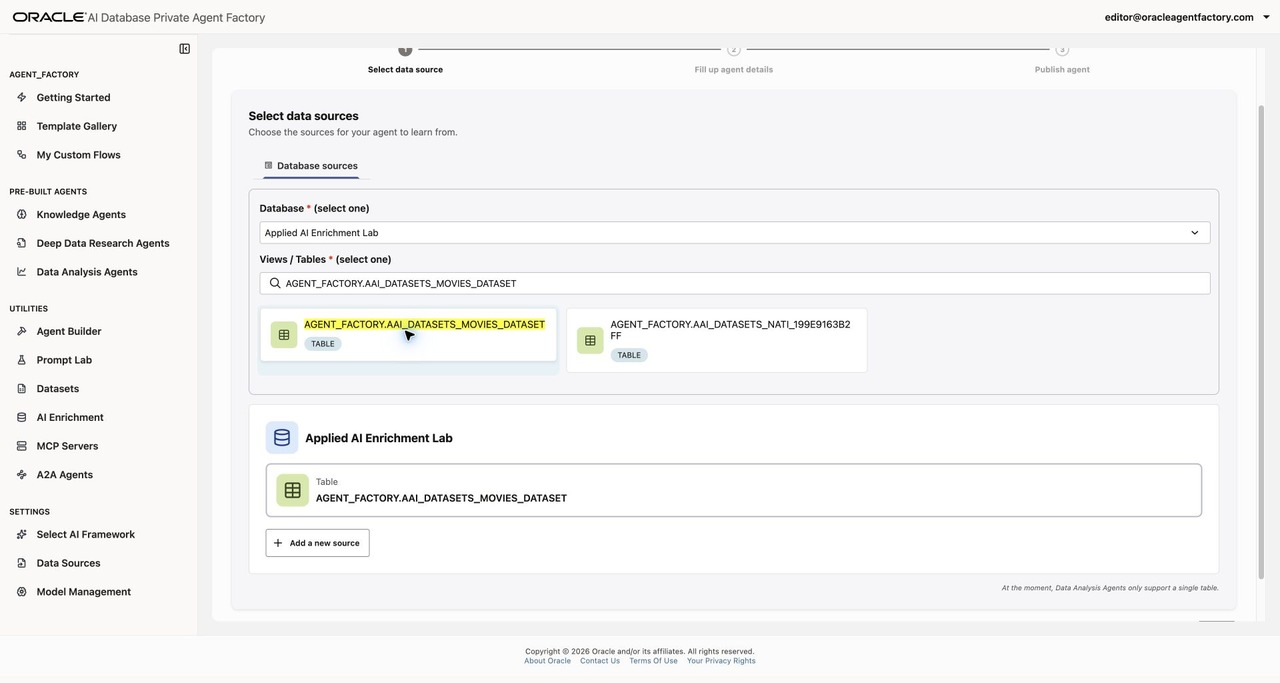
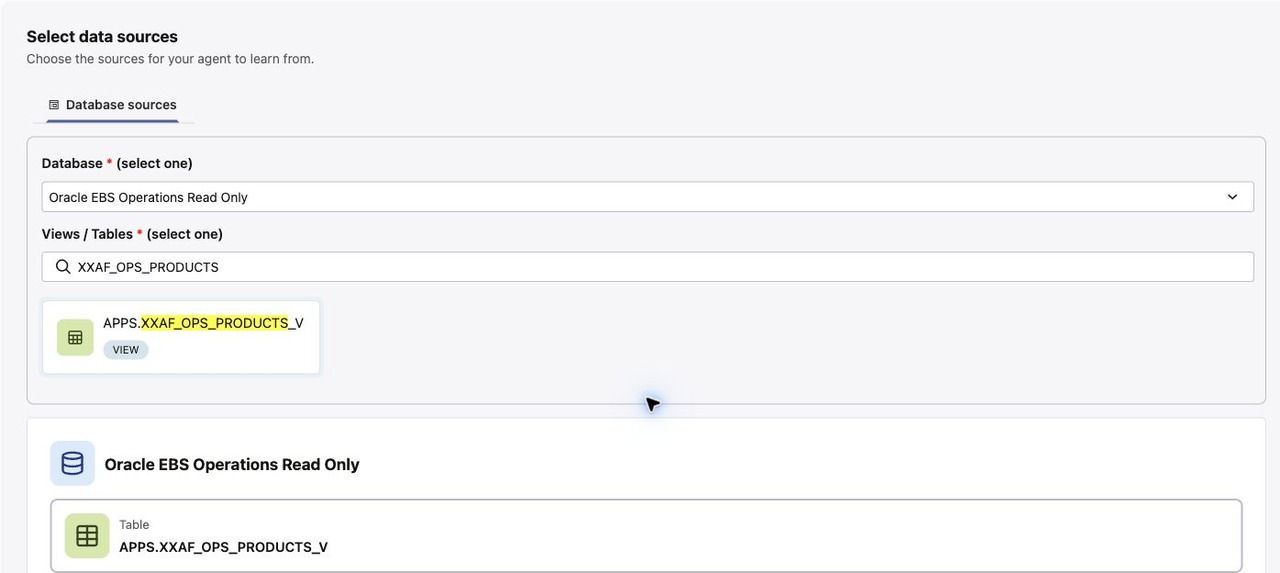
Use verified EBS product inventory in Lab 2

diff --git a/agent-factory/prebuilt/prebuilt.md b/agent-factory/prebuilt/prebuilt.md
@@ -2,9 +2,9 @@
 
 ## Introduction
 
-Oracle AI Database Private Agent Factory provides pre-built agents for common tasks. In this lab, you will create a Data Analysis Agent over a sample movie dataset and a Knowledge Agent over a PDF.
+Oracle AI Database Private Agent Factory provides pre-built agents for common tasks. In this lab, you will create a Data Analysis Agent over a small Oracle EBS product inventory view and a Knowledge Agent over a PDF.
 
-The Data Analysis Agent answers questions about structured data using generated SQL, query results, and natural language explanations. Its initial exploration suggests questions about the selected table. Depending on the question, the response can also include a chart.
+The Data Analysis Agent answers questions about structured data using generated SQL, query results, and natural language explanations. Its initial exploration suggests questions about the selected table or view. Depending on the question, the response can also include a chart.
 
 The Knowledge Agent uses retrieval-augmented generation (RAG) to answer questions from unstructured content. Citations let you inspect the source passages supporting an answer.
 
@@ -12,73 +12,69 @@ The Knowledge Agent uses retrieval-augmented generation (RAG) to answer question
 
 ### Objectives
 
-- Create a Data Analysis Agent using the provided Movies Dataset
+- Create a Data Analysis Agent using the Oracle EBS product inventory view
 - Ask a question and inspect the generated SQL and results
 - Create a Knowledge Agent using a PDF and review its answer citations
 
 ### Prerequisites
 
-* You have completed the Agent Factory overview lab and are signed in with your assigned **Editor** account
-* The workshop environment has the preloaded Movies Dataset, a database source that can query it, and the shared **AIW26-PAF-HOL6004-BOO6096** generative model
+* You have completed the Agent Factory overview lab and are signed in with your assigned account
+* The workshop environment provides **Oracle EBS Operations Read Only**, access to the `APPS.XXAF_OPS_PRODUCTS_V` view, and the shared **AIW26-PAF-HOL6004-BOO6096** generative model
 * You have a PDF to upload, or can save the documentation page in Task 2 as a PDF
 
-## Task 1: Create and talk to a Data Analysis Agent using the Movies Dataset
+## Task 1: Create and talk to a Data Analysis Agent using EBS product inventory
 
-1. In the sidebar, select **Data Analysis Agents**.
+1. In the sidebar, select **Data Analysis Agents**, then click **Create agent**. The database view is already available; you do not need to import a sample dataset.
 
-2. Click **Import sample datasets**.
+2. In **Select data sources**, choose **Oracle EBS Operations Read Only** from the **Database** list. Wait for the available objects to load. Search for `XXAF_OPS_PRODUCTS`, select the `APPS.XXAF_OPS_PRODUCTS_V` **VIEW** card, then click **Next**. A Data Analysis Agent uses one table or view in this flow.
 
-    ![Data Analysis Agents page with Import sample datasets and Create agent buttons.](images/data-analysis-import.jpg)
+    If the source or view is missing, ask your instructor to check access. If the wizard reports **Unable to connect to the Database** or publication reports `ORA-00942`, have the instructor check the connection and object access before retrying.
 
-3. On the **Datasets** page, search for **Movies**. The HOL instance already has **Movies Dataset** imported, so the **Imported** button is disabled. Continue without importing another copy. If your assigned instance has not been prepared, ask your instructor to import the dataset before continuing; the workshop's shared dataset source is read-only.
+    ![APPS.XXAF_OPS_PRODUCTS_V selected from Oracle EBS Operations Read Only.](images/data-analysis-create.jpg)
 
-    ![Movies Dataset card showing the Imported status.](images/movies-imported.jpg)
+3. In **Fill up agent details**, enter an **Agent name** and **Description**. For example:
 
-4. Return to **Data Analysis Agents** and click **Create agent**.
+    * **Agent name:** EBS Product Inventory Agent
+    * **Description:** Analyze Oracle EBS products, installation status, and patch levels from the read-only product inventory view.
 
-5. In **Select data sources**, choose **Applied AI Enrichment Lab** from the **Database** list. Search for `AGENT_FACTORY.AAI_DATASETS_MOVIES_DATASET`, select that **TABLE** card, then click **Next**. This is the imported Movies Dataset. A Data Analysis Agent uses one table in this flow.
+    Add a unique suffix to your agent name so you can find it later. **Help description** is optional and can provide instructions or tips for using the agent. Click **Next**.
 
-    The instance also contains **Applied AI Datasets** and an `AAI_DATASETS_RO.MOVIES_DATASET` view. Use the source and **TABLE** named above for this HOL: the shared dataset connection and the view failed the creation checks during the workshop review. In another instance, use the Movies source and object supplied by your instructor. If the wizard reports **Unable to connect to the Database** or publication reports `ORA-00942`, have the instructor check the connection and object access before retrying.
+    ![Data Analysis Agent details with the EBS product inventory view and an example name and description.](images/data-analysis-config.jpg)
 
-    ![Imported AGENT_FACTORY Movies table selected from Applied AI Enrichment Lab in the Editor account.](images/data-analysis-create.jpg)
+4. Review the agent name and selected view, then click **Publish agent**. Wait for publication to finish.
 
-6. In **Fill up agent details**, enter an **Agent name** and **Description**. For example:
+    ![Publish agent page summarizing the EBS Product Inventory Agent and its selected view.](images/data-analysis-publish.jpg)
 
-    * **Agent name:** Movies Data Analysis Agent - editor
-    * **Description:** Explore movie titles, release years, genres, and ratings in the Movies Dataset.
+5. On the **Data Analysis Agents** page, find your agent and click **Open agent**. In **Messages**, allow the initial exploration to finish and review the suggested questions and analyses. If exploration does not start automatically, click **Execute exploration** when available.
 
-    Replace `editor` with your assigned user ID or another unique suffix. **Help description** is optional and can provide instructions or tips for using the agent. Click **Next**.
+    ![Published EBS Product Inventory Agent with the Open agent button.](images/data-analysis-published.jpg)
 
-    ![Data Analysis Agent details with the Movies Dataset and an example name and description.](images/data-analysis-config.jpg)
+    ![Initial exploration results for the EBS product inventory view.](images/data-analysis-exploration.jpg)
 
-7. Review the agent name and selected table, then click **Publish agent**. Wait for publication to finish.
+6. Select the **Data** tab to inspect the view. Its six columns are **INSTALLATION_STATUS**, **APPLICATION_NAME**, **APPLICATION_SHORT_NAME**, **LAST_UPDATE_DATE**, **APPLICATION_ID**, and **PATCH_LEVEL**. Scroll horizontally if needed. The prepared workshop sample contains 176 product records.
 
-    ![Publish agent page summarizing the Movies Data Analysis Agent and its selected table.](images/data-analysis-publish.jpg)
+    ![Data tab showing the EBS product inventory and its columns.](images/data-analysis-data.jpg)
 
-8. On the **Data Analysis Agents** page, find your agent and click **Open agent**. In **Messages**, allow the initial exploration to finish and review the suggested questions. If exploration does not start automatically, click **Execute exploration** when available.
+7. Return to **Messages** and ask **How many EBS products are there for each installation status? Show the status codes and counts.** Review the answer, then open **SQL**, **Table**, and **Visualization** to inspect the generated query, results, and chart. Answers and available visualizations can vary with the model and question.
 
-    ![Published Movies Data Analysis Agent with the Open agent button.](images/data-analysis-published.jpg)
+    ![EBS Product Inventory Agent answering the installation-status count question.](images/data-analysis-answer.jpg)
 
-9. Select the **Data** tab to inspect the table and its columns, including **TYPE**, **TITLE**, and **RELEASE_YEAR**. Scroll horizontally to see additional columns. The HOL table is `AGENT_FACTORY.AAI_DATASETS_MOVIES_DATASET`; the schema prefix can differ in another environment.
-
-    ![Data tab showing the Movies Dataset table and its columns.](images/data-analysis-data.jpg)
-
-10. Return to **Messages** and ask **How many titles are movies and how many are TV shows?** Review the answer, generated SQL, and query results. Answers and available visualizations can vary with the model and question.
-
-    To check the counts independently, open **SQL executor**, enter the following read-only query, and click **Run SQL Query**. Compare the returned counts with the agent's answer. If chat exploration is still running, this check also lets you confirm that the dataset can be queried while your instructor checks chat readiness.
+8. To check the counts independently, open **SQL executor**, enter the following read-only query, and click **Run SQL Query**. Compare the returned counts with the agent's answer.
 
     ```sql
     <copy>
-    SELECT TYPE, COUNT(*) AS TITLE_COUNT
-    FROM AGENT_FACTORY.AAI_DATASETS_MOVIES_DATASET
-    GROUP BY TYPE
-    ORDER BY TYPE
+    SELECT INSTALLATION_STATUS, COUNT(*) AS PRODUCT_COUNT
+    FROM APPS.XXAF_OPS_PRODUCTS_V
+    GROUP BY INSTALLATION_STATUS
+    ORDER BY INSTALLATION_STATUS
     </copy>
     ```
 
-    ![Editor SQL executor showing verified movie and TV-show counts from the imported Movies table.](images/data-analysis-query.jpg)
+    In the prepared workshop sample, status **I** has **174** products and status **S** has **2**, for **176** products in total. If the source data has changed, use the current SQL results to check the agent's answer.
 
-11. Continue to Task 2 to create an agent that answers questions from a PDF.
+    ![SQL executor showing 174 products with status I and 2 with status S.](images/data-analysis-query.jpg)
+
+9. Continue to Task 2 to create an agent that answers questions from a PDF.
 
 ## Task 2: Create and talk to a Knowledge Agent for your own data
 
@@ -130,7 +126,7 @@ The Knowledge Agent uses retrieval-augmented generation (RAG) to answer question
 
 ## Summary
 
-You created a Data Analysis Agent over a sample table and a Knowledge Agent over a PDF. You used natural language to explore structured data and inspected document citations for a grounded answer. You may now **proceed to the next lab** to explore custom flows.
+You created a Data Analysis Agent over an Oracle EBS product inventory view and a Knowledge Agent over a PDF. You used natural language to explore structured data and inspected document citations for a grounded answer. You may now **proceed to the next lab** to explore custom flows.
 
 ## Learn More
 
@@ -146,4 +142,4 @@ You created a Data Analysis Agent over a sample table and a Knowledge Agent over
 * Allen Hosler, Principal Product Manager, Database Applied AI
 * Kumar G. Varun, Lead PM, Oracle Database Applied AI
 
-**Last Updated Date** - October 21, 2026
+**Last Updated Date** - October 27, 2026

diff --git a/agent-factory/paf-overview/paf-overview.md b/agent-factory/paf-overview/paf-overview.md
@@ -53,7 +53,7 @@ In this lab, you will:
 
     A Knowledge Agent uses retrieval-augmented generation (RAG) to answer questions from selected knowledge sources. Its answers include citations so you can inspect the supporting content. In Lab 2, you will create one using a PDF.
 
-2. Select **Data Analysis Agents**. This is the starting point for agents that answer questions about database tables and views. In Lab 2, you will use a sample dataset and examine generated SQL, tables, and visualizations.
+2. Select **Data Analysis Agents**. This is the starting point for agents that answer questions about database tables and views. In Lab 2, you will use the Oracle EBS product inventory view and examine generated SQL, tables, and visualizations.
 
 3. Select **Deep Data Research Agents**. This agent type prepares a searchable knowledge base from file data sources and answers research questions with citations to retrieved documents.
 
@@ -111,7 +111,7 @@ In this lab, you will:
 
     ![Prompt Lab with model selection, temperature, prompt input, Generate button, and saved tests.](images/prompt-lab.jpg)
 
-2. Select **Datasets**. Review the sample dataset cards, filters, and **Import Dataset** buttons. Each card describes its content and format. You will work with sample data in Lab 2.
+2. Select **Datasets**. Review the sample dataset cards, filters, and **Import Dataset** buttons. Each card describes its content and format. Lab 2 uses an existing database view and does not require a dataset import.
 
     ![Datasets page with category, difficulty, and source filters and sample dataset cards.](images/datasets.jpg)
 
@@ -129,7 +129,7 @@ Review these pages as a product tour. Use the workshop's supplied resources in t
 
     ![Unfiltered Editor Data Sources Database tab showing the supplied EBS, JD Edwards, and PeopleSoft connections.](images/data-sources.jpg)
 
-    To locate the sample-data connections, enter `Applied AI` in **Search for any database source...**. This filters the list to **Applied AI Datasets** and **Applied AI Enrichment Lab**. Clear the search to return to the full list shown above. Lab 2 identifies the source and Movies table to select. A **connected** label alone does not verify that the creation wizard can list or query an object.
+    To locate the Lab 2 connection, enter `Oracle EBS Operations` in **Search for any database source...**. Lab 2 uses **Oracle EBS Operations Read Only** and its `APPS.XXAF_OPS_PRODUCTS_V` view. Clear the search to return to the full list shown above. A **connected** label alone does not verify that the creation wizard can list or query an object.
 
 2. Select **Model Management**. Review the **Generative models** and **Embedding models** tabs. Generative models produce responses; embedding models represent content as vectors for retrieval. The shared default generative model in this instance is **AIW26-PAF-HOL6004-BOO6096**. **Backup-AIW2026-PAF-HOL6004-BOO6096** is also supplied. Use the default model in the exercises unless your instructor directs you to use the backup.
 
